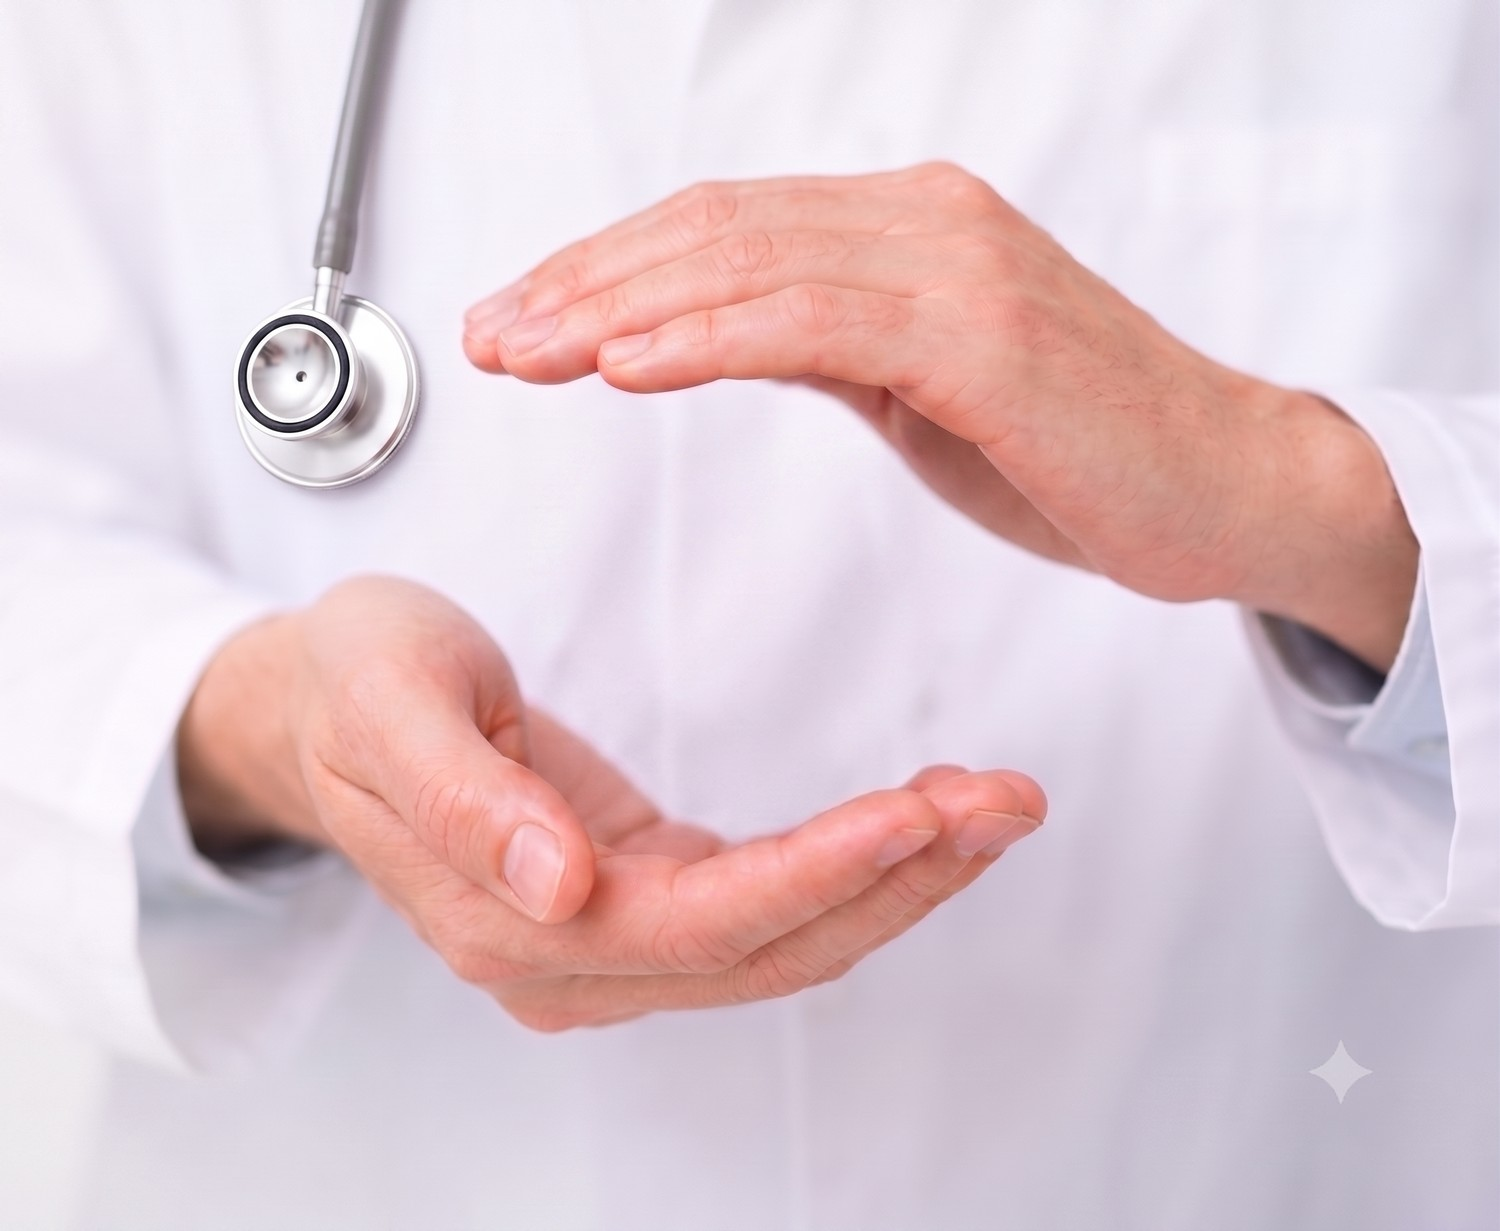
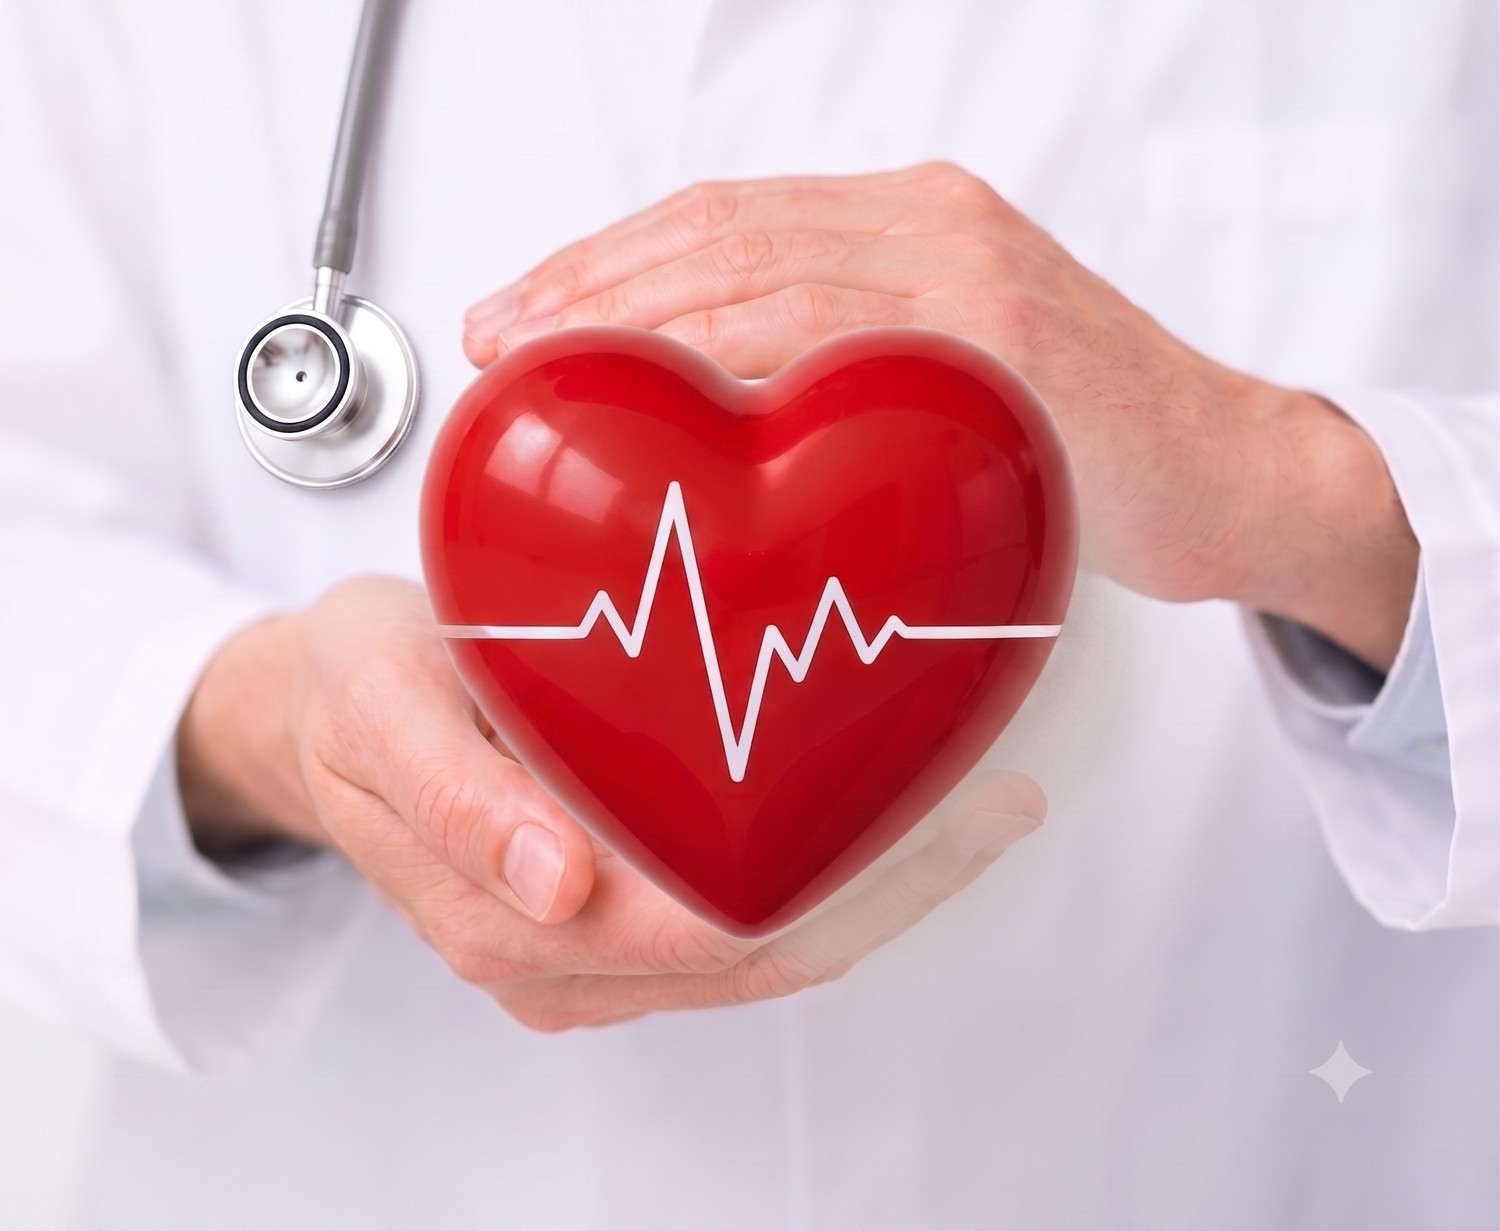
Revert Philosophy hero to static photo (no heart movement)
Bake the hands + heart into one flat hero photo and remove the separate
beating heart layer, so the hero is a normal still image again.

Changed region(s): [[0.276, 0.247, 0.7667, 0.8026]]

diff --git a/public/css/app.css b/public/css/app.css
@@ -362,8 +362,6 @@ p { margin: 0 0 1rem; }
 .phil-hero__photo {
     -webkit-mask-image: linear-gradient(to right, transparent 0%, #000 32%);
     mask-image: linear-gradient(to right, transparent 0%, #000 32%); }
-/* separate heart layer beats in place; hands stay perfectly still */
-.js-motion .phil-hero__heartbeat { animation: heartbeat 2.4s ease-in-out infinite; transform-origin: center; will-change: transform; }
 .phil-hero__title { font-size: clamp(2rem, 5vw, 3.2rem); line-height: 1.08; margin: .6rem 0 0; }
 .phil-hero__title .navy { color: var(--navy-900); }
 .phil-hero__title .red { color: var(--red-600); }

diff --git a/resources/views/pages/philosophy.blade.php b/resources/views/pages/philosophy.blade.php
@@ -11,7 +11,6 @@
     <section class="phil-hero">
         <div class="phil-hero__media">
             <img class="phil-hero__photo" src="{{ $v('images/philosophy/hero-photo.jpg') }}" alt="Doctor's hands holding a heart with a pulse line">
-            <img class="phil-hero__heartbeat" src="{{ $v('images/philosophy/hero-heart-overlay.png') }}" alt="" aria-hidden="true">
         </div>
         <div class="container">
             <div class="phil-hero__intro">
